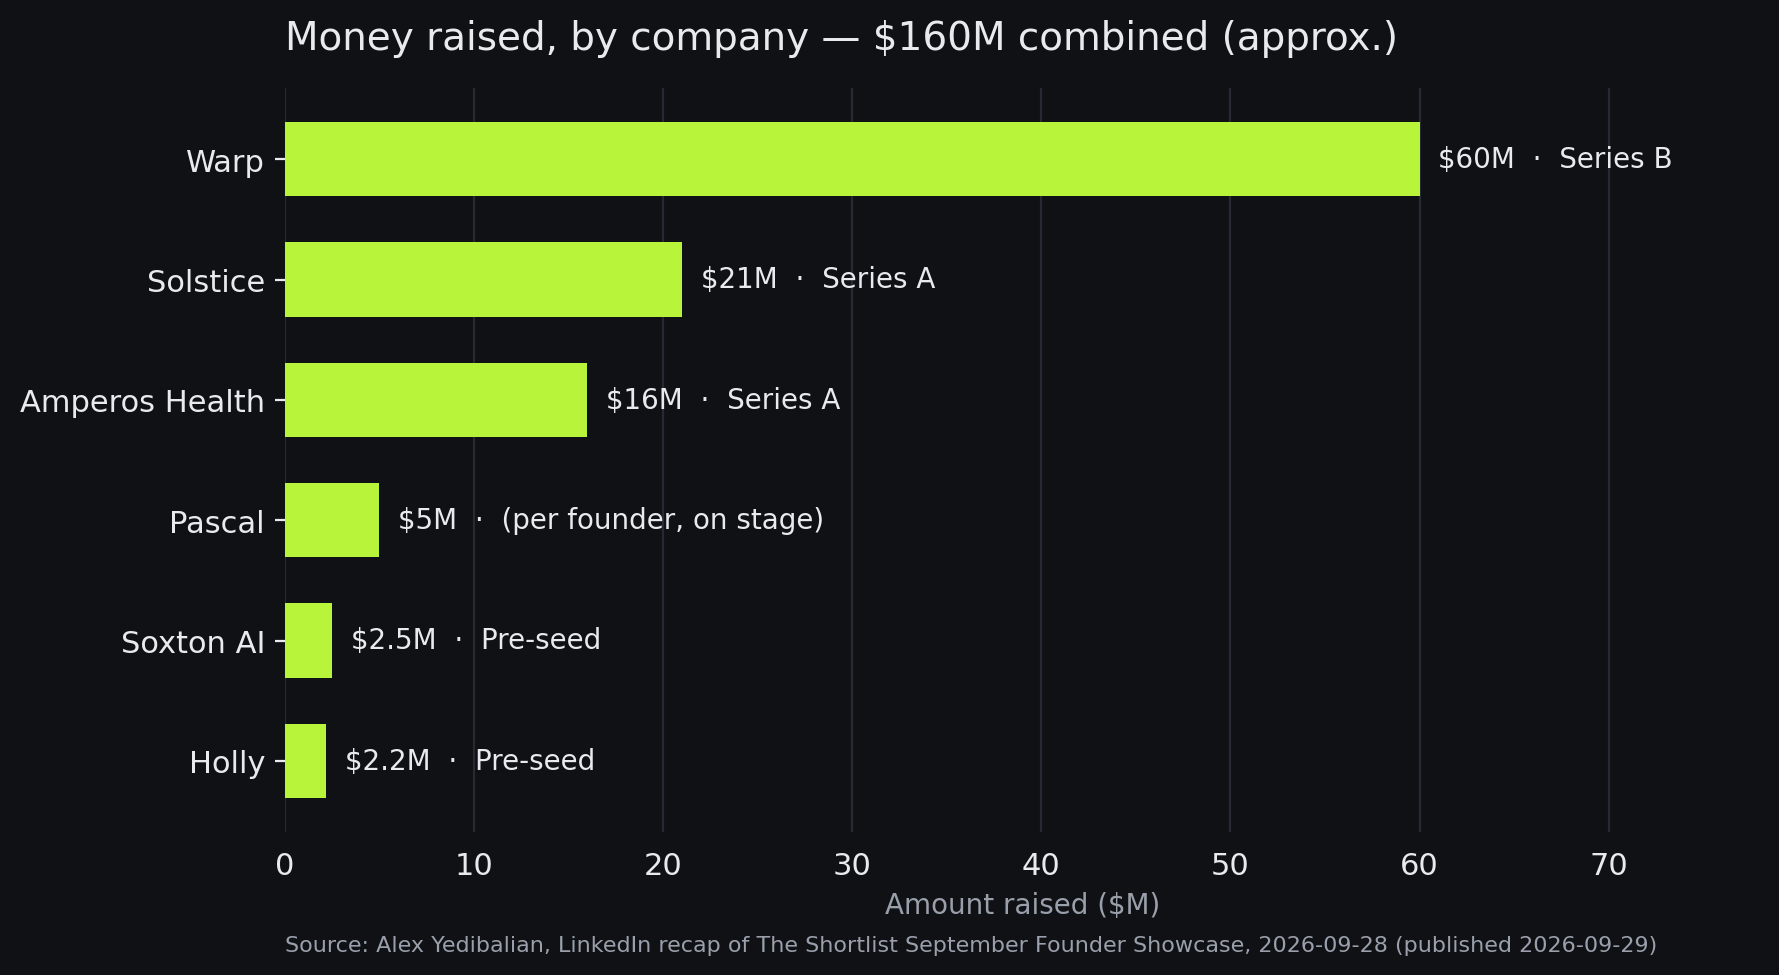
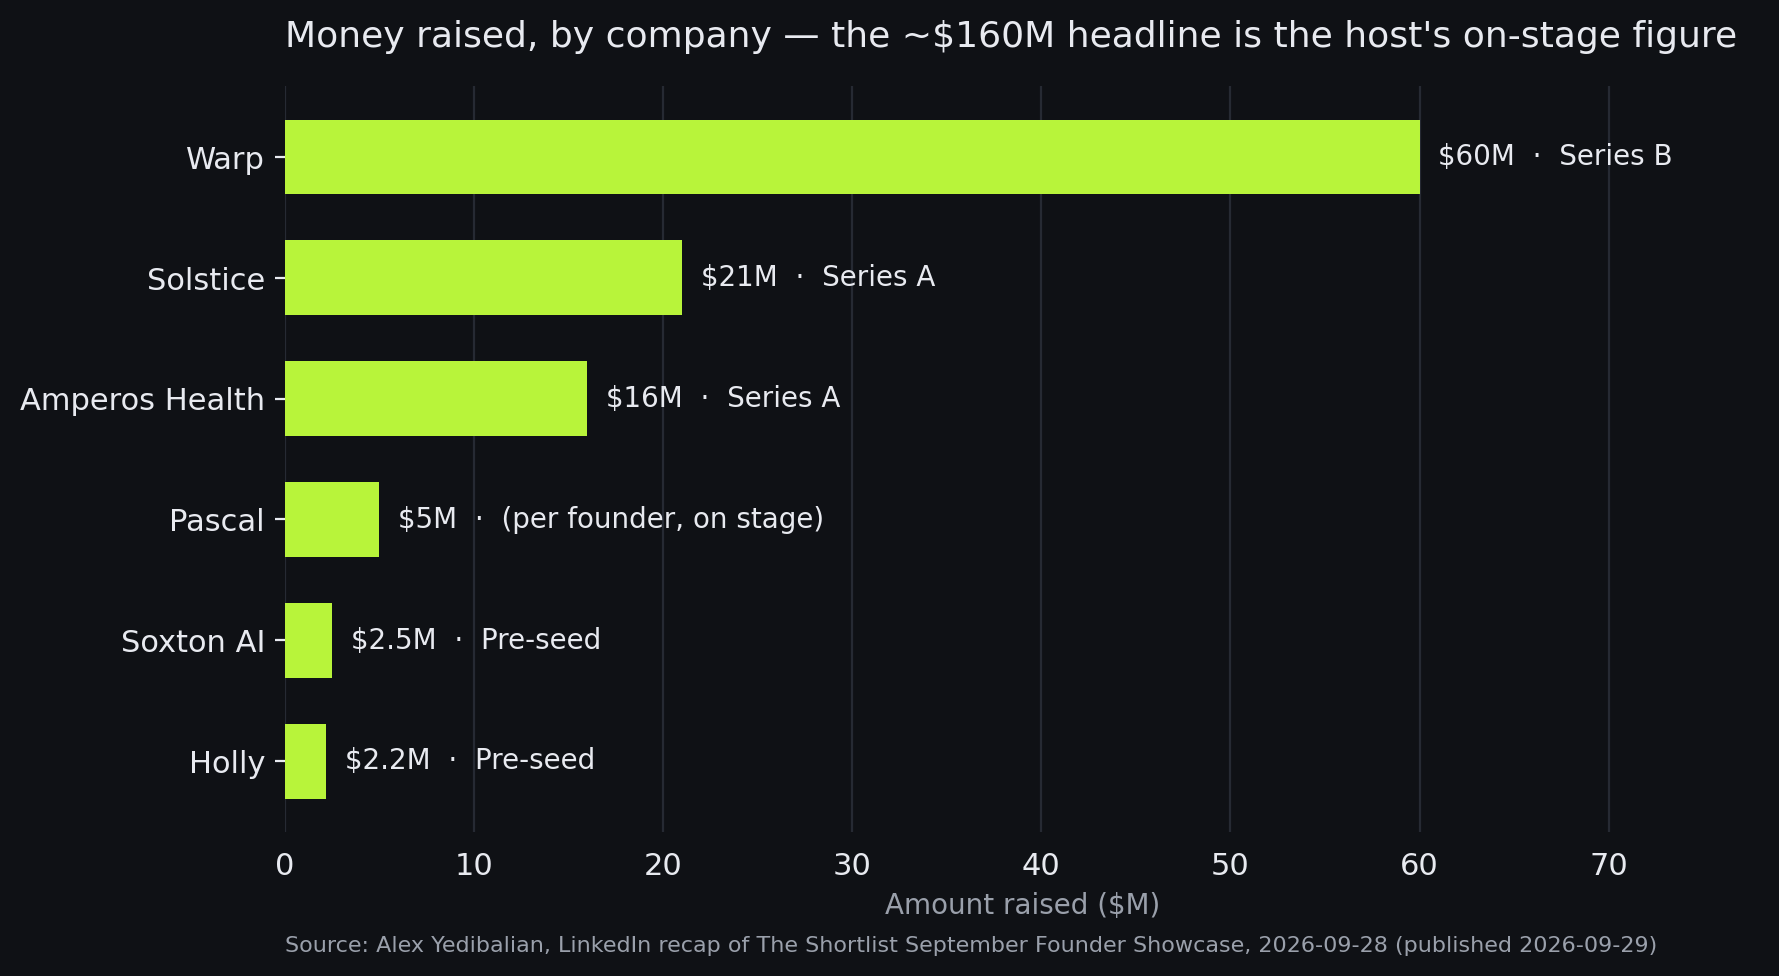
fix(E-02): attribute the ~$160M figure to the host's on-stage count
The recap records ~$160M as Ivor Stratford's on-stage figure, not a
verified all-rounds total. Attribute rather than define in all three
places (opening paragraph, stat label, chart caption), drop the
unpublished all-rounds framing and the latest-rounds arithmetic, and
regenerate the chart whose title had the framing baked in. The chart
generation script now lives in scripts/fixtures/long-reads/ so the
asset is reproducible.

diff --git a/scripts/fixtures/long-reads/raise_chart.py b/scripts/fixtures/long-reads/raise_chart.py
@@ -1,0 +1,30 @@
+import matplotlib
+matplotlib.use("Agg")
+import matplotlib.pyplot as plt
+
+# Raise amounts exactly as stated in Alex's published recap post (2026-09-28, lnkd.in/p/eQTcjYYZ)
+# The ~$160M combined figure is host Ivor Stratford's on-stage count (as published in the recap).
+companies = ["Warp", "Solstice", "Amperos Health", "Pascal", "Soxton AI", "Holly"]
+raises = [60, 21, 16, 5, 2.5, 2.2]  # $M
+stages = ["Series B", "Series A", "Series A", "(per founder, on stage)", "Pre-seed", "Pre-seed"]
+
+BG = "#0f1115"; BAR = "#b8f43a"; TXT = "#e8eaf0"; MUT = "#9aa0ab"
+fig, ax = plt.subplots(figsize=(9, 5), dpi=200)
+fig.patch.set_facecolor(BG); ax.set_facecolor(BG)
+bars = ax.barh(companies[::-1], raises[::-1], color=BAR, height=0.62)
+for bar, r, s in zip(bars, raises[::-1], stages[::-1]):
+    ax.text(bar.get_width() + 1.0, bar.get_y() + bar.get_height()/2,
+            f"${r:g}M  ·  {s}", va="center", ha="left", color=TXT, fontsize=10)
+ax.set_xlim(0, 78)
+ax.set_title("Money raised, by company — the ~$160M headline is the host's on-stage figure",
+             color=TXT, fontsize=13, loc="left", pad=14)
+ax.set_xlabel("Amount raised ($M)", color=MUT, fontsize=10)
+ax.tick_params(colors=TXT, labelsize=11)
+for spine in ax.spines.values(): spine.set_visible(False)
+ax.xaxis.set_ticks_position("none"); ax.xaxis.grid(True, color="#262a33", lw=0.8)
+ax.set_axisbelow(True)
+ax.text(0, -0.16, "Source: Alex Yedibalian, LinkedIn recap of The Shortlist September Founder Showcase, 2026-09-28 (published 2026-09-29)",
+        transform=ax.transAxes, color=MUT, fontsize=8)
+plt.tight_layout()
+plt.savefig("/home/user/work/empire-state-hub/public/long-reads/2026-09-28-shortlist-september-founder-showcase/raise-chart.png", bbox_inches="tight", facecolor=BG)
+print("saved")
